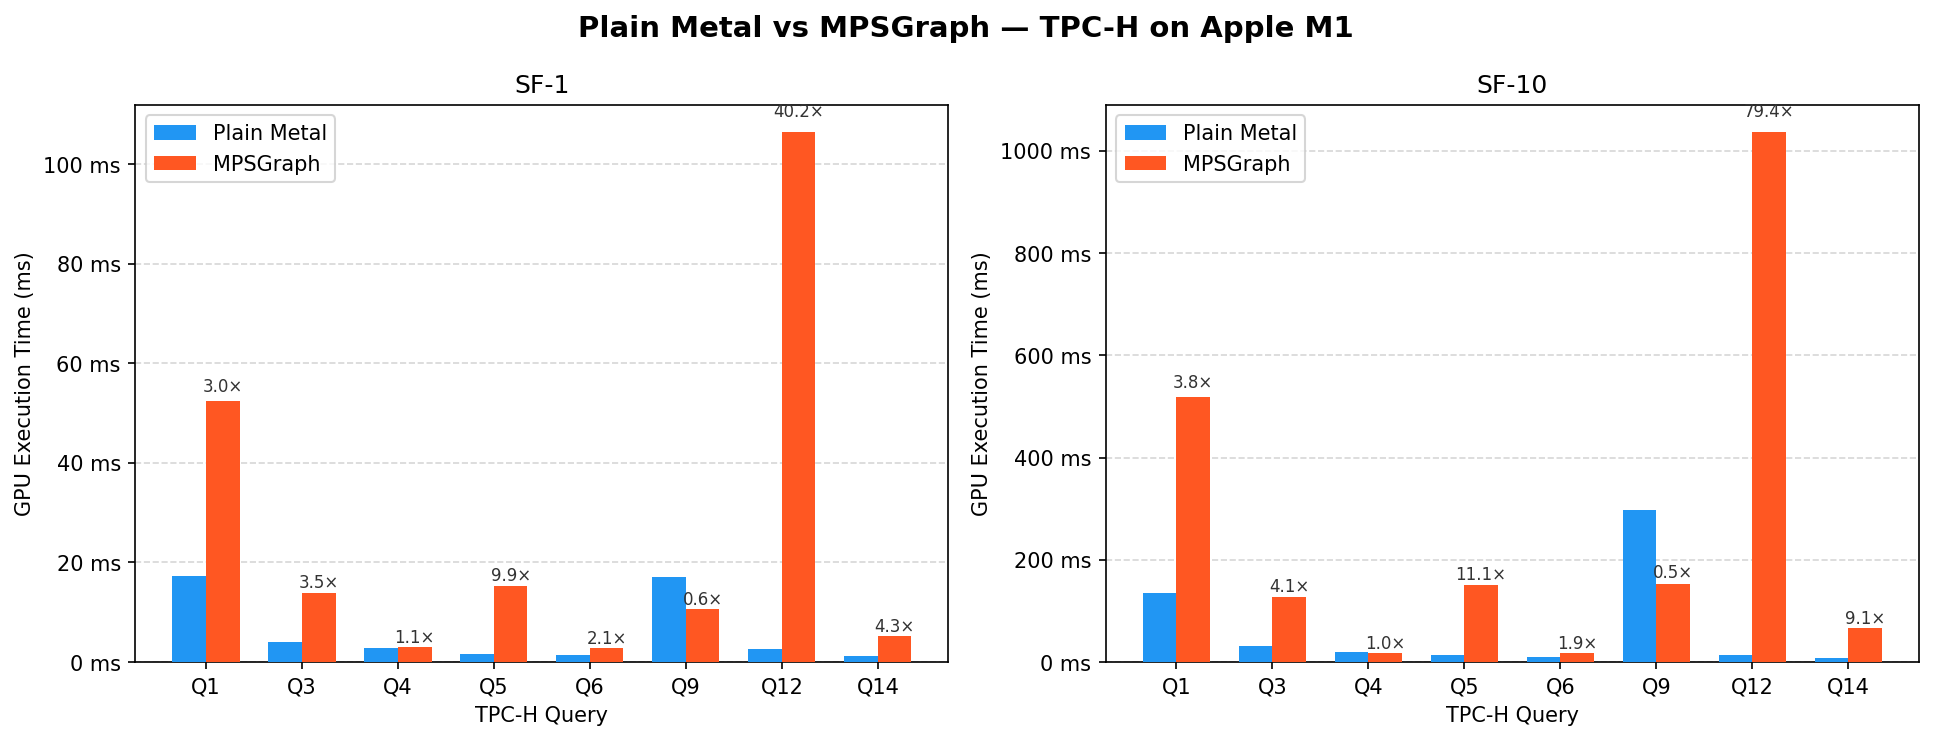
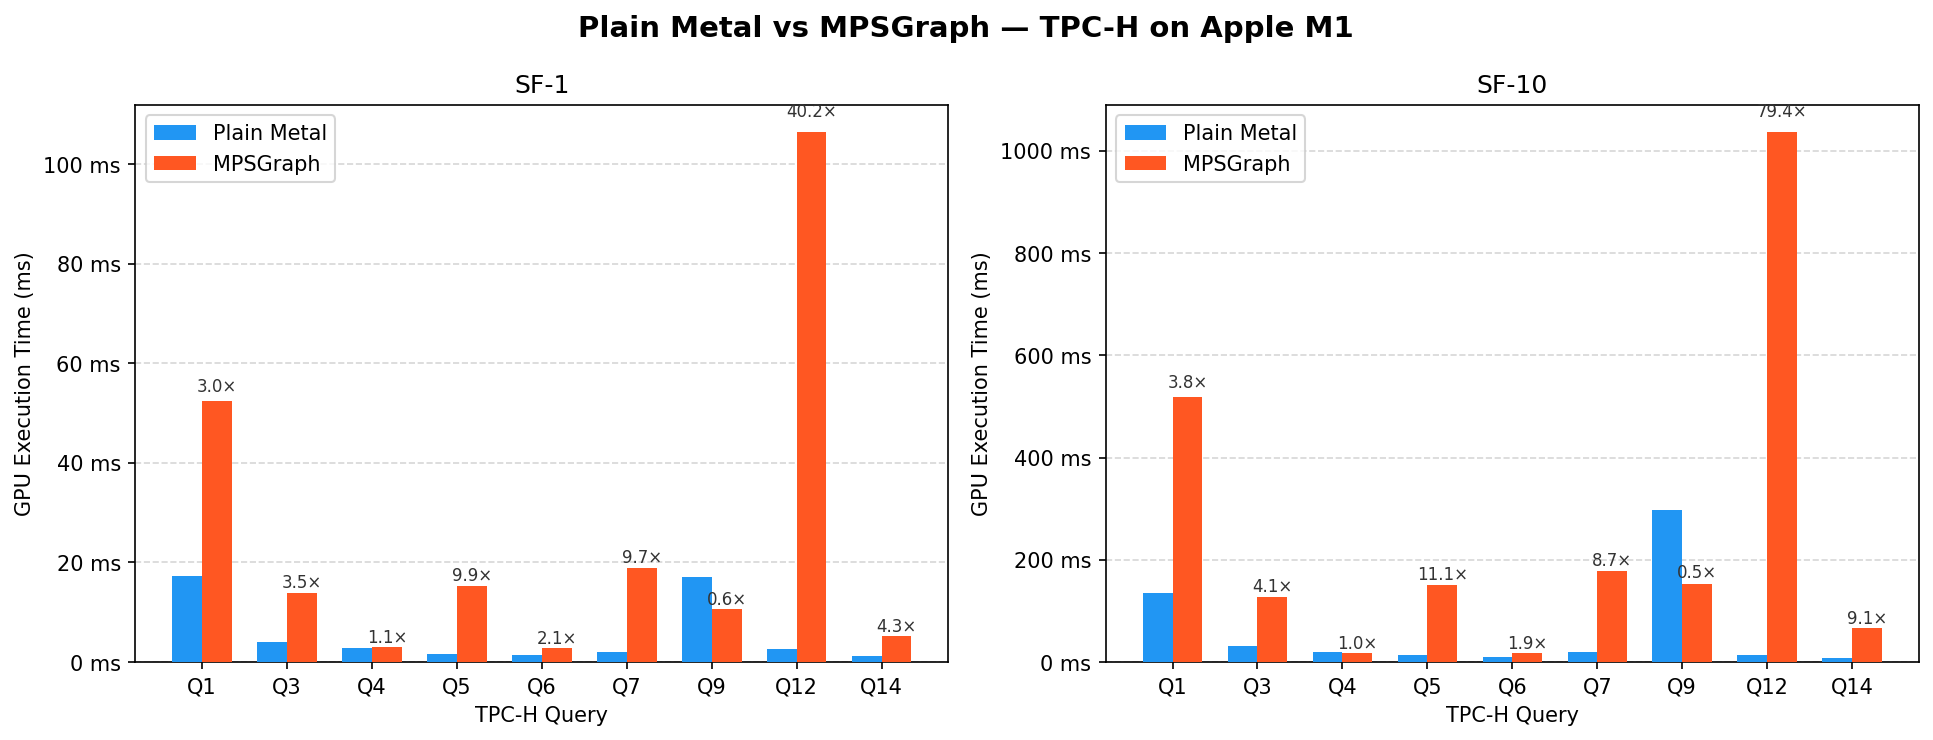
query q7 impl

diff --git a/src/q7.mm b/src/q7.mm
@@ -1,0 +1,260 @@
+#import "mps_infra.h"
+#import <Foundation/Foundation.h>
+
+// TPC-H Q7 — Volume Shipping
+//
+// SELECT supp_nation, cust_nation, l_year, SUM(volume) AS revenue
+// FROM supplier, lineitem, orders, customer, nation n1, nation n2
+// WHERE s_suppkey = l_suppkey AND o_orderkey = l_orderkey AND c_custkey = o_custkey
+//   AND s_nationkey = n1.n_nationkey AND c_nationkey = n2.n_nationkey
+//   AND ((n1.n_name='FRANCE' AND n2.n_name='GERMANY') OR (n1.n_name='GERMANY' AND n2.n_name='FRANCE'))
+//   AND l_shipdate BETWEEN '1995-01-01' AND '1996-12-31'
+// GROUP BY supp_nation, cust_nation, l_year
+//
+// Strategy (mirrors Q5's hybrid CPU-map + MPSGraph-gather approach):
+//   CPU build: supp_nation_map[suppkey] = nationkey (FRANCE/GERMANY only, else -1);
+//              orders_cust_nation_map[orderkey] = customer nationkey (FRANCE/GERMANY only,
+//              else -1) — pre-joins orders+customer on CPU exactly as Q5 does.
+//   MPSGraph:  gather both nations per lineitem row via l_suppkey/l_orderkey; mask on
+//              validity + cross-nation pair + ship-date window; bucket into 4 fixed
+//              (pair, year) groups via masked reductionSum (Q4-style).
+//   CPU post:  print the 2x2 revenue table.
+
+void runQ7(id<MTLDevice> device, id<MTLCommandQueue> queue) {
+    printf("\n--- TPC-H Q7: Volume Shipping ---\n");
+
+    // ----------------------------------------------------------------
+    // Step 1: Load tables
+    // ----------------------------------------------------------------
+    auto t0 = std::chrono::high_resolution_clock::now();
+
+    auto sup = loadSupplierBasic(g_dataset_path);
+    auto& s_suppkey   = sup.suppkey;
+    auto& s_nationkey = sup.nationkey;
+
+    auto cCols = loadColumnsMulti(g_dataset_path + "customer.tbl", {
+        {0, ColType::INT}, {3, ColType::INT},   // c_custkey, c_nationkey
+    });
+    auto& c_custkey   = cCols.ints(0);
+    auto& c_nationkey = cCols.ints(3);
+
+    auto oCols = loadColumnsMulti(g_dataset_path + "orders.tbl", {
+        {0, ColType::INT}, {1, ColType::INT},   // o_orderkey, o_custkey
+    });
+    auto& o_orderkey = oCols.ints(0);
+    auto& o_custkey  = oCols.ints(1);
+
+    auto lCols = loadColumnsMulti(g_dataset_path + "lineitem.tbl", {
+        {0, ColType::INT  }, {2, ColType::INT  },
+        {5, ColType::FLOAT}, {6, ColType::FLOAT}, {10, ColType::DATE},
+    });
+    auto& l_orderkey = lCols.ints(0);
+    auto& l_suppkey  = lCols.ints(2);
+    auto& l_extprice = lCols.floats(5);
+    auto& l_discount = lCols.floats(6);
+    auto& l_shipdate = lCols.ints(10);
+    size_t N = l_orderkey.size();
+
+    auto nat = loadNation(g_dataset_path);
+
+    auto t1 = std::chrono::high_resolution_clock::now();
+    double parseMs = std::chrono::duration<double, std::milli>(t1 - t0).count();
+    printf("  Supplier: %zu  Customer: %zu  Orders: %zu  Lineitem: %zu  (parse: %.1f ms)\n",
+           s_suppkey.size(), c_custkey.size(), o_orderkey.size(), N, parseMs);
+
+    // ----------------------------------------------------------------
+    // Step 2: CPU — FRANCE/GERMANY nationkeys
+    // ----------------------------------------------------------------
+    int france_nk  = findNationKey(nat, "FRANCE");
+    int germany_nk = findNationKey(nat, "GERMANY");
+    if (france_nk == -1 || germany_nk == -1) {
+        fprintf(stderr, "  FRANCE/GERMANY not found\n");
+        return;
+    }
+
+    // ----------------------------------------------------------------
+    // Step 3: CPU — build lookup maps
+    // ----------------------------------------------------------------
+    int max_suppkey  = *std::max_element(s_suppkey.begin(),  s_suppkey.end());
+    int max_custkey  = *std::max_element(c_custkey.begin(),  c_custkey.end());
+    int max_orderkey = *std::max_element(o_orderkey.begin(), o_orderkey.end());
+
+    // supp_nation_map[suppkey] = nationkey if FRANCE/GERMANY, else -1
+    std::vector<int32_t> supp_nation_map((size_t)(max_suppkey + 1), -1);
+    for (size_t i = 0; i < s_suppkey.size(); i++) {
+        int nk = s_nationkey[i];
+        if (nk == france_nk || nk == germany_nk)
+            supp_nation_map[(size_t)s_suppkey[i]] = nk;
+    }
+
+    // cust_nation_map[custkey] = nationkey if FRANCE/GERMANY, else -1
+    std::vector<int32_t> cust_nation_map((size_t)(max_custkey + 1), -1);
+    for (size_t i = 0; i < c_custkey.size(); i++) {
+        int nk = c_nationkey[i];
+        if (nk == france_nk || nk == germany_nk)
+            cust_nation_map[(size_t)c_custkey[i]] = nk;
+    }
+
+    // orders_cust_nation_map[orderkey] = customer nationkey (pre-joins orders+customer)
+    std::vector<int32_t> orders_cust_nation_map((size_t)(max_orderkey + 1), -1);
+    for (size_t i = 0; i < o_orderkey.size(); i++) {
+        int ck = o_custkey[i];
+        if (ck > max_custkey) continue;
+        int nk = cust_nation_map[(size_t)ck];
+        if (nk >= 0)
+            orders_cust_nation_map[(size_t)o_orderkey[i]] = nk;
+    }
+
+    // ----------------------------------------------------------------
+    // Step 4: Build MPSGraph
+    // ----------------------------------------------------------------
+    MPSGraph* graph = [[MPSGraph alloc] init];
+
+    MPSGraphTensor* tOrdCustNatMap = [graph placeholderWithShape:@[@(max_orderkey + 1)]
+                                                        dataType:MPSDataTypeInt32   name:@"ord_cust_nat_map"];
+    MPSGraphTensor* tSuppNatMap    = [graph placeholderWithShape:@[@(max_suppkey + 1)]
+                                                        dataType:MPSDataTypeInt32   name:@"supp_nat_map"];
+    MPSGraphTensor* tLOrderkey     = [graph placeholderWithShape:@[@(N)]
+                                                        dataType:MPSDataTypeInt32   name:@"l_orderkey"];
+    MPSGraphTensor* tLSuppkey      = [graph placeholderWithShape:@[@(N)]
+                                                        dataType:MPSDataTypeInt32   name:@"l_suppkey"];
+    MPSGraphTensor* tShipdate      = [graph placeholderWithShape:@[@(N)]
+                                                        dataType:MPSDataTypeInt32   name:@"l_shipdate"];
+    MPSGraphTensor* tExtprice      = [graph placeholderWithShape:@[@(N)]
+                                                        dataType:MPSDataTypeFloat32 name:@"extprice"];
+    MPSGraphTensor* tDiscount      = [graph placeholderWithShape:@[@(N)]
+                                                        dataType:MPSDataTypeFloat32 name:@"discount"];
+
+    // Gather per-lineitem nationkeys via the orders/supplier maps
+    MPSGraphTensor* custNation = [graph gatherWithUpdatesTensor:tOrdCustNatMap
+                                                  indicesTensor:tLOrderkey
+                                                           axis:0 batchDimensions:0 name:@"cust_nat"];
+    MPSGraphTensor* suppNation = [graph gatherWithUpdatesTensor:tSuppNatMap
+                                                  indicesTensor:tLSuppkey
+                                                           axis:0 batchDimensions:0 name:@"supp_nat"];
+
+    // Validity + cross-nation-pair condition (same-nation combos don't qualify)
+    MPSGraphTensor* zeroI     = [graph constantWithScalar:0 dataType:MPSDataTypeInt32];
+    MPSGraphTensor* validCust = [graph greaterThanOrEqualToWithPrimaryTensor:custNation
+                                                              secondaryTensor:zeroI name:nil];
+    MPSGraphTensor* validSupp = [graph greaterThanOrEqualToWithPrimaryTensor:suppNation
+                                                              secondaryTensor:zeroI name:nil];
+    MPSGraphTensor* natDiffer = [graph notEqualWithPrimaryTensor:custNation
+                                                  secondaryTensor:suppNation name:nil];
+
+    // Ship-date window: [1995-01-01, 1996-12-31]
+    MPSGraphTensor* dateStart = [graph constantWithScalar:19950101 dataType:MPSDataTypeInt32];
+    MPSGraphTensor* dateEnd   = [graph constantWithScalar:19961231 dataType:MPSDataTypeInt32];
+    MPSGraphTensor* dateOk    = [graph logicalANDWithPrimaryTensor:
+                                     [graph greaterThanOrEqualToWithPrimaryTensor:tShipdate
+                                                                  secondaryTensor:dateStart name:nil]
+                                 secondaryTensor:
+                                     [graph lessThanOrEqualToWithPrimaryTensor:tShipdate
+                                                              secondaryTensor:dateEnd name:nil]
+                                 name:nil];
+
+    MPSGraphTensor* mask = [graph logicalANDWithPrimaryTensor:
+                                [graph logicalANDWithPrimaryTensor:validCust secondaryTensor:validSupp name:nil]
+                            secondaryTensor:
+                                [graph logicalANDWithPrimaryTensor:natDiffer secondaryTensor:dateOk name:nil]
+                            name:@"mask"];
+    MPSGraphTensor* maskF = [graph castTensor:mask toType:MPSDataTypeFloat32 name:nil];
+
+    // volume = extprice * (1 - discount) * mask
+    MPSGraphTensor* oneF   = [graph constantWithScalar:1.0f dataType:MPSDataTypeFloat32];
+    MPSGraphTensor* volume = [graph multiplicationWithPrimaryTensor:
+                                  [graph multiplicationWithPrimaryTensor:tExtprice
+                                      secondaryTensor:[graph subtractionWithPrimaryTensor:oneF
+                                                                          secondaryTensor:tDiscount name:nil]
+                                      name:nil]
+                              secondaryTensor:maskF name:@"volume"];
+
+    // pair p: 0 => (supp=FRANCE, cust=GERMANY), 1 => (supp=GERMANY, cust=FRANCE)
+    // Always 0/1 regardless of mask (comparison-derived), so it's a safe scatter index.
+    MPSGraphTensor* germanyC = [graph constantWithScalar:germany_nk dataType:MPSDataTypeInt32];
+    MPSGraphTensor* pairIdx  = [graph castTensor:
+                                    [graph equalWithPrimaryTensor:suppNation secondaryTensor:germanyC name:nil]
+                                        toType:MPSDataTypeInt32 name:nil];
+
+    // year flag y: 0 => 1995, 1 => 1996
+    MPSGraphTensor* year1996Start = [graph constantWithScalar:19960101 dataType:MPSDataTypeInt32];
+    MPSGraphTensor* yearIdx = [graph castTensor:
+                                   [graph greaterThanOrEqualToWithPrimaryTensor:tShipdate
+                                                                secondaryTensor:year1996Start name:nil]
+                                       toType:MPSDataTypeInt32 name:nil];
+
+    MPSGraphTensor* two      = [graph constantWithScalar:2 dataType:MPSDataTypeInt32];
+    MPSGraphTensor* groupIdx = [graph additionWithPrimaryTensor:
+                                    [graph multiplicationWithPrimaryTensor:pairIdx secondaryTensor:two name:nil]
+                                secondaryTensor:yearIdx name:@"group_idx"];
+
+    // Scatter volume into 4-element (pair, year) revenue array
+    MPSGraphTensor* zeros4  = [graph constantWithScalar:0.0 shape:@[@4] dataType:MPSDataTypeFloat32];
+    MPSGraphTensor* revenue = [graph scatterWithDataTensor:zeros4
+                                             updatesTensor:volume
+                                             indicesTensor:groupIdx
+                                                      axis:0
+                                                      mode:MPSGraphScatterModeAdd
+                                                      name:@"revenue"];
+
+    // ----------------------------------------------------------------
+    // Step 5: Feeds + output buffer
+    // ----------------------------------------------------------------
+    MPSGraphTensorData* ocnTD = columnTensor(device, orders_cust_nation_map.data(),
+                                             (size_t)(max_orderkey + 1), MPSDataTypeInt32);
+    MPSGraphTensorData* snTD  = columnTensor(device, supp_nation_map.data(),
+                                             (size_t)(max_suppkey + 1), MPSDataTypeInt32);
+    MPSGraphTensorData* okTD  = columnTensor(device, (void*)l_orderkey.data(), N, MPSDataTypeInt32);
+    MPSGraphTensorData* skTD  = columnTensor(device, (void*)l_suppkey.data(),  N, MPSDataTypeInt32);
+    MPSGraphTensorData* sdTD  = columnTensor(device, (void*)l_shipdate.data(), N, MPSDataTypeInt32);
+    MPSGraphTensorData* epTD  = columnTensor(device, (void*)l_extprice.data(), N, MPSDataTypeFloat32);
+    MPSGraphTensorData* diTD  = columnTensor(device, (void*)l_discount.data(), N, MPSDataTypeFloat32);
+
+    NSDictionary* feeds = @{
+        tOrdCustNatMap: ocnTD, tSuppNatMap: snTD,
+        tLOrderkey: okTD,      tLSuppkey:   skTD, tShipdate: sdTD,
+        tExtprice:  epTD,      tDiscount:   diTD,
+    };
+
+    id<MTLBuffer> revBuf = allocSharedBuffer(device, 4 * sizeof(float));
+    MPSGraphTensorData* revTD = [[MPSGraphTensorData alloc]
+        initWithMTLBuffer:revBuf shape:@[@4] dataType:MPSDataTypeFloat32];
+    NSMutableDictionary* results = [NSMutableDictionary dictionary];
+    results[revenue] = revTD;
+
+    // ----------------------------------------------------------------
+    // Step 6: 2 warmup + 1 measured run
+    // ----------------------------------------------------------------
+    double gpuMs = runQueryWarmedUp(graph, feeds, nil, queue, results);
+
+    // ----------------------------------------------------------------
+    // Step 7: CPU post — print
+    // ----------------------------------------------------------------
+    auto tp0 = std::chrono::high_resolution_clock::now();
+    float* bins = (float*)[revBuf contents];
+
+    printf("\nTPC-H Q7 Results:\n");
+    printf("+----------+----------+--------+-----------------+\n");
+    printf("| supp_nat | cust_nat | l_year |         revenue |\n");
+    printf("+----------+----------+--------+-----------------+\n");
+    static const char* pair_supp[] = {"FRANCE", "GERMANY"};
+    static const char* pair_cust[] = {"GERMANY", "FRANCE"};
+    for (int p = 0; p < 2; p++) {
+        for (int y = 0; y < 2; y++) {
+            printf("| %-8s | %-8s | %6d | $%14.2f |\n",
+                   pair_supp[p], pair_cust[p], 1995 + y, bins[p * 2 + y]);
+        }
+    }
+    printf("+----------+----------+--------+-----------------+\n");
+
+    auto tp1 = std::chrono::high_resolution_clock::now();
+    double postMs = std::chrono::duration<double, std::milli>(tp1 - tp0).count();
+
+    printf("\n  Rows: %zu\n", N);
+    printTimingSummary(parseMs, gpuMs, postMs);
+
+    double memGB = (double)device.recommendedMaxWorkingSetSize / (1024.0 * 1024.0 * 1024.0);
+    std::string sf = (g_dataset_path.find("SF-10") != std::string::npos) ? "SF-10" : "SF-1";
+    logResultToCSV("results/mps_results.csv", sf, "Q7", gpuMs, postMs,
+                   std::string(device.name.UTF8String), memGB);
+}

diff --git a/src/main.mm b/src/main.mm
@@ -7,6 +7,7 @@ void runQ3(id<MTLDevice> device, id<MTLCommandQueue> queue);
 void runQ4(id<MTLDevice> device, id<MTLCommandQueue> queue);
 void runQ5(id<MTLDevice> device, id<MTLCommandQueue> queue);
 void runQ6(id<MTLDevice> device, id<MTLCommandQueue> queue);
+void runQ7(id<MTLDevice> device, id<MTLCommandQueue> queue);
 void runQ9(id<MTLDevice> device, id<MTLCommandQueue> queue);
 void runQ12(id<MTLDevice> device, id<MTLCommandQueue> queue);
 void runQ14(id<MTLDevice> device, id<MTLCommandQueue> queue);
@@ -22,6 +23,7 @@ static void showHelp() {
     printf("  q4            - TPC-H Q4  (Order Priority Checking) [semi-join]\n");
     printf("  q5            - TPC-H Q5  (Local Supplier Volume)  [5-way join]\n");
     printf("  q6            - TPC-H Q6  (Forecasting Revenue Change)\n");
+    printf("  q7            - TPC-H Q7  (Volume Shipping)        [4-way join]\n");
     printf("  q9            - TPC-H Q9  (Product Type Profit)    [6-table join]\n");
     printf("  q12           - TPC-H Q12 (Shipping Modes)\n");
     printf("  q14           - TPC-H Q14 (Promotion Effect)\n");
@@ -76,6 +78,8 @@ int main(int argc, const char* argv[]) {
             runQ5(device, commandQueue);
         if (query == "q6" || query == "all")
             runQ6(device, commandQueue);
+        if (query == "q7" || query == "all")
+            runQ7(device, commandQueue);
         if (query == "q9" || query == "all")
             runQ9(device, commandQueue);
         if (query == "q12" || query == "all")

diff --git a/compare.py b/compare.py
@@ -11,7 +11,7 @@ metal_df = pd.read_csv(metal_csv)
 mps_df   = pd.read_csv(mps_csv)
 
 # ── Filter: latest run on Apple M1, only queries present in both ──────────────
-QUERIES = ["Q1", "Q3", "Q4", "Q5", "Q6", "Q9", "Q12", "Q14"]
+QUERIES = ["Q1", "Q3", "Q4", "Q5", "Q6", "Q7", "Q9", "Q12", "Q14"]
 SFS     = ["SF-1", "SF-10"]
 
 metal_m1 = metal_df[metal_df["gpu_name"] == "Apple M1"]
